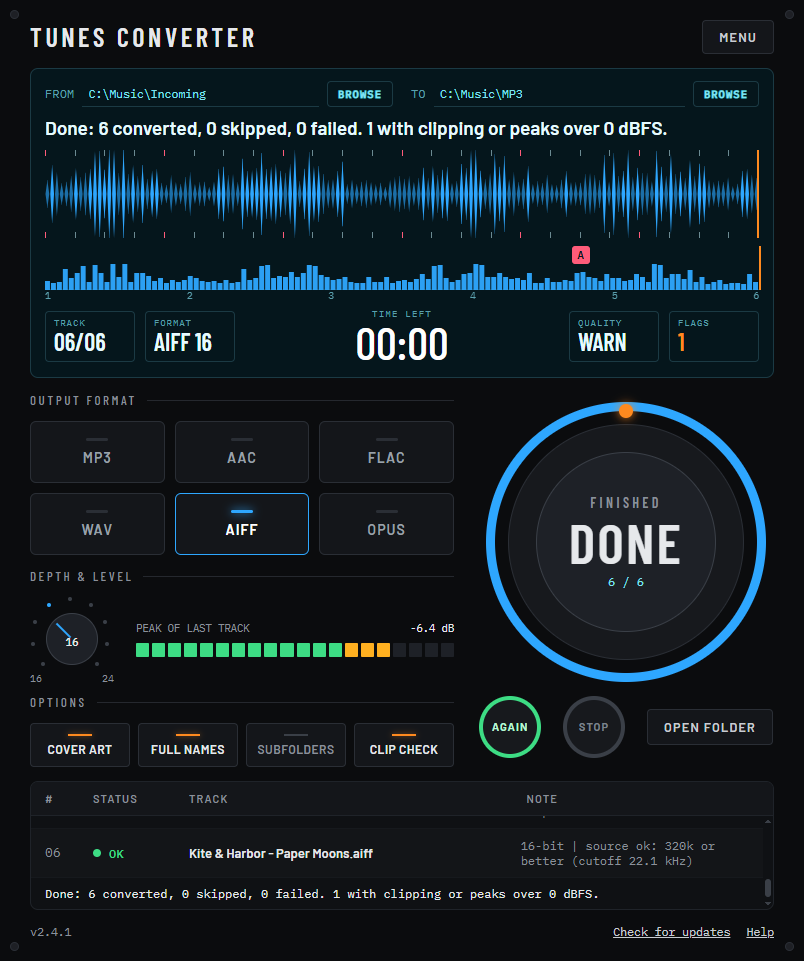
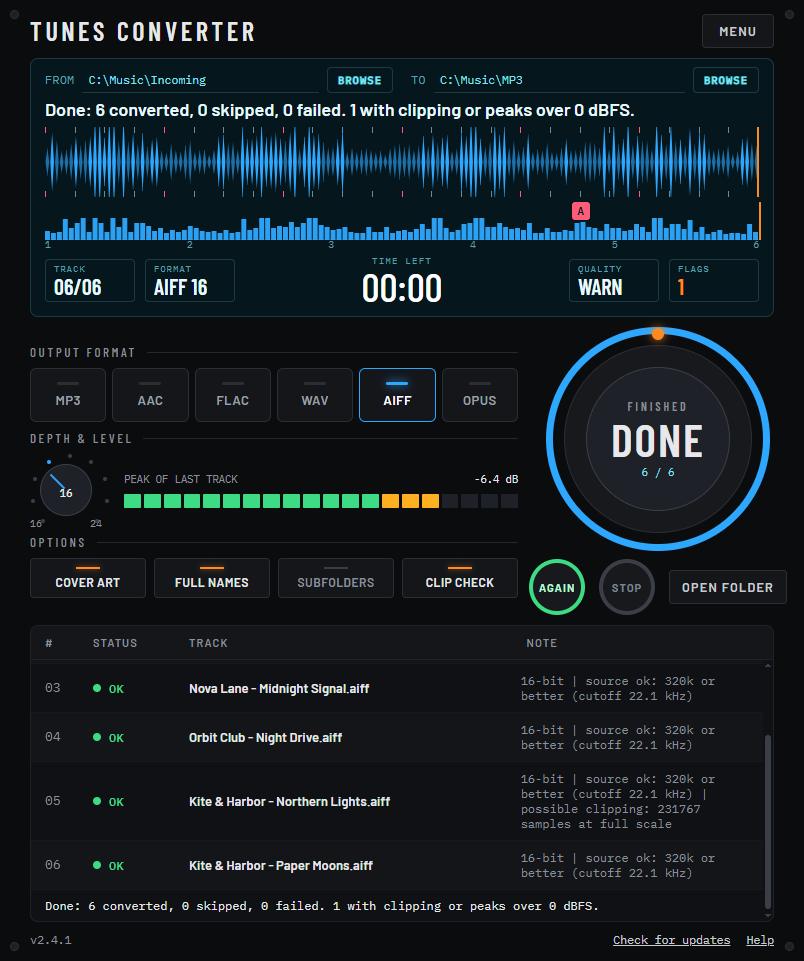
Bigger results list: one-row format pads, smaller platter, tighter spacing

diff --git a/src/renderer/styles.css b/src/renderer/styles.css
@@ -43,8 +43,8 @@ button { font-family: inherit; cursor: pointer; }
 button:disabled { cursor: default; }
 button:focus-visible, input:focus-visible, select:focus-visible { outline: 2px solid var(--blue); outline-offset: 2px; }
 
-.app { position: relative; display: flex; flex-direction: column; gap: 14px; height: 100vh; overflow: hidden; padding: 20px 30px 22px; max-width: 900px; margin: 0 auto; }
-.main-view { flex: 1; min-height: 0; display: flex; flex-direction: column; gap: 14px; }
+.app { position: relative; display: flex; flex-direction: column; gap: 10px; height: 100vh; overflow: hidden; padding: 14px 30px 14px; max-width: 900px; margin: 0 auto; }
+.main-view { flex: 1; min-height: 0; display: flex; flex-direction: column; gap: 10px; }
 .main-view > *, .head, .foot { flex: none; }
 .screw { position: absolute; width: 9px; height: 9px; border-radius: 50%; background: #1e2025; border: 1px solid var(--edge); }
 .screw.tl { left: 10px; top: 10px; } .screw.tr { right: 10px; top: 10px; }
@@ -71,7 +71,7 @@ h1 { margin: 0; font: 600 26px/1.1 var(--cond); letter-spacing: 0.14em; text-tra
 .btn.primary.small { width: auto; }
 
 /* screen */
-.screen { background: var(--lcd); border: 1px solid var(--lcd-edge); border-radius: 8px; padding: 12px 14px; display: flex; flex-direction: column; gap: 8px; }
+.screen { background: var(--lcd); border: 1px solid var(--lcd-edge); border-radius: 8px; padding: 8px 14px 10px; display: flex; flex-direction: column; gap: 5px; }
 .paths { display: flex; gap: 18px; font-family: var(--mono); font-size: 11.5px; color: var(--lcd-dim); }
 .path { flex: 1; min-width: 0; display: flex; align-items: center; gap: 8px; }
 .path label { font: inherit; letter-spacing: 0.04em; color: var(--lcd-dim); }
@@ -81,42 +81,42 @@ h1 { margin: 0; font: 600 26px/1.1 var(--cond); letter-spacing: 0.14em; text-tra
 }
 .path input:focus-visible { outline-offset: 0; }
 .path input:disabled { opacity: 0.6; }
-.screen-title { font-size: 19px; font-weight: 600; color: var(--lcd-hi); min-height: 27px; white-space: nowrap; overflow: hidden; text-overflow: ellipsis; }
-.wave { display: block; width: 100%; height: 88px; }
-.overview { position: relative; height: 50px; }
-.ov-strip { position: absolute; left: 0; right: 0; top: 18px; height: 26px; border-bottom: 1px solid var(--lcd-edge); }
-.minicv { display: block; width: 100%; height: 26px; }
-.ruler { position: absolute; left: 0; right: 0; bottom: -6px; display: flex; justify-content: space-between; font: 9.5px var(--mono); color: var(--lcd-dim); }
+.screen-title { font-size: 18px; font-weight: 600; color: var(--lcd-hi); min-height: 24px; line-height: 1.25; white-space: nowrap; overflow: hidden; text-overflow: ellipsis; }
+.wave { display: block; width: 100%; height: 70px; }
+.overview { position: relative; height: 40px; }
+.ov-strip { position: absolute; left: 0; right: 0; top: 16px; height: 22px; border-bottom: 1px solid var(--lcd-edge); }
+.minicv { display: block; width: 100%; height: 22px; }
+.ruler { position: absolute; left: 0; right: 0; bottom: -9px; display: flex; justify-content: space-between; font: 9.5px var(--mono); color: var(--lcd-dim); }
 .markers { position: absolute; left: 0; right: 0; top: 0; height: 18px; }
 .flag {
   position: absolute; top: 0; width: 18px; height: 18px; margin-left: -9px; border-radius: 3px; color: var(--lcd);
   font: 500 11px var(--mono); display: flex; align-items: center; justify-content: center;
 }
-.ov-head { position: absolute; top: 0; height: 44px; width: 0; border-left: 2px solid var(--orange); left: 0; }
-.readouts { display: grid; grid-template-columns: 90px 90px 1fr 90px 90px; gap: 10px; align-items: center; margin-top: 4px; }
-.ro { border: 1px solid var(--lcd-edge); border-radius: 4px; padding: 5px 8px; text-align: left; background: transparent; color: inherit; font: inherit; }
+.ov-head { position: absolute; top: 0; height: 38px; width: 0; border-left: 2px solid var(--orange); left: 0; }
+.readouts { display: grid; grid-template-columns: 90px 90px 1fr 90px 90px; gap: 10px; align-items: center; margin-top: 8px; }
+.ro { border: 1px solid var(--lcd-edge); border-radius: 4px; padding: 3px 8px; text-align: left; background: transparent; color: inherit; font: inherit; }
 .ro-btn { display: block; }
 .ro-btn:hover:not(:disabled) { background: #0b2830; border-color: #2b5b69; }
 .ro-btn:disabled { opacity: 0.7; }
 .ro-l { display: block; font: 9px var(--mono); color: var(--lcd-dim); letter-spacing: 0.1em; }
-.ro-v { display: block; font: 600 24px/1.15 var(--cond); color: var(--lcd-hi); white-space: nowrap; }
+.ro-v { display: block; font: 600 22px/1.1 var(--cond); color: var(--lcd-hi); white-space: nowrap; }
 .ro-v.hot { color: var(--orange); }
 .ro-time { text-align: center; }
 .ro-time .ro-l { letter-spacing: 0.14em; }
-.time { font: 500 46px/1 var(--cond); color: #fff; }
+.time { font: 500 40px/1 var(--cond); color: #fff; }
 
 .dropped { display: flex; flex-wrap: wrap; align-items: center; gap: 12px; padding: 10px 14px; border: 1px solid var(--edge); border-radius: 6px; color: var(--soft); font-size: 13px; }
 
 /* deck */
-.deck { display: grid; grid-template-columns: minmax(0, 1fr) 296px; gap: 24px; align-items: center; }
-.controls { display: flex; flex-direction: column; gap: 13px; min-width: 0; }
+.deck { display: grid; grid-template-columns: minmax(0, 1fr) 232px; gap: 24px; align-items: center; }
+.controls { display: flex; flex-direction: column; gap: 8px; min-width: 0; }
 .sec { display: flex; align-items: center; gap: 10px; font: 500 13px var(--cond); letter-spacing: 0.2em; color: var(--muted); }
 .sec i { flex: 1; height: 1px; background: #25282e; }
-.pads { display: grid; grid-template-columns: repeat(3, minmax(0, 1fr)); gap: 10px; }
+.pads { display: grid; grid-template-columns: repeat(6, minmax(0, 1fr)); gap: 6px; }
 .pad {
-  height: 62px; border-radius: 6px; border: 1px solid var(--edge); background: var(--panel); color: #9aa0a9;
-  display: flex; flex-direction: column; align-items: center; justify-content: center; gap: 8px;
-  font-size: 14px; font-weight: 600; letter-spacing: 0.08em;
+  height: 54px; border-radius: 6px; border: 1px solid var(--edge); background: var(--panel); color: #9aa0a9;
+  display: flex; flex-direction: column; align-items: center; justify-content: center; gap: 7px;
+  font-size: 13px; font-weight: 600; letter-spacing: 0.04em; padding: 0;
 }
 .pad .led { width: 22px; height: 3px; border-radius: 2px; background: var(--edge); }
 .pad:hover:not(:disabled) { border-color: #3a3f47; }
@@ -125,15 +125,15 @@ h1 { margin: 0; font: 600 26px/1.1 var(--cond); letter-spacing: 0.14em; text-tra
 .pad:disabled:not([aria-pressed="true"]) { opacity: 0.55; }
 
 .level { display: flex; align-items: center; gap: 22px; }
-.knob-wrap { position: relative; width: 84px; height: 84px; flex: none; }
+.knob-wrap { position: relative; width: 72px; height: 72px; flex: none; }
 .knob { position: absolute; inset: 0; padding: 0; border: 0; border-radius: 50%; background: transparent; color: var(--ink); }
 .knob-ticks { position: absolute; inset: 0; }
 .knob-ticks b { position: absolute; width: 4px; height: 4px; border-radius: 50%; background: #3a3f47; }
 .knob-ticks b.on { background: var(--blue); }
-.knob .cap { position: absolute; left: 16px; top: 16px; width: 52px; height: 52px; border-radius: 50%; background: #1e2127; border: 1px solid #3a3f47; }
+.knob .cap { position: absolute; left: 10px; top: 10px; width: 52px; height: 52px; border-radius: 50%; background: #1e2127; border: 1px solid #3a3f47; }
 .knob:hover:not(:disabled) .cap { border-color: #5a616c; }
-.knob .ptr { position: absolute; left: 41px; top: 20px; width: 2px; height: 20px; background: var(--blue); transform-origin: 1px 22px; transform: rotate(var(--ang, -45deg)); }
-.knob .kval { position: absolute; left: 16px; top: 38px; width: 52px; text-align: center; font: 500 11px var(--mono); color: var(--ink); }
+.knob .ptr { position: absolute; left: 35px; top: 14px; width: 2px; height: 20px; background: var(--blue); transform-origin: 1px 22px; transform: rotate(var(--ang, -45deg)); }
+.knob .kval { position: absolute; left: 10px; top: 32px; width: 52px; text-align: center; font: 500 11px var(--mono); color: var(--ink); }
 .knob:disabled { opacity: 0.6; }
 .klo, .khi { position: absolute; bottom: -4px; font: 10px var(--mono); color: var(--muted); }
 .klo { left: 0; } .khi { right: 0; }
@@ -148,7 +148,7 @@ h1 { margin: 0; font: 600 26px/1.1 var(--cond); letter-spacing: 0.14em; text-tra
 
 .opts { display: grid; grid-template-columns: repeat(4, minmax(0, 1fr)); gap: 8px; }
 .opt {
-  height: 44px; border-radius: 4px; border: 1px solid var(--edge); background: var(--panel); color: var(--muted);
+  height: 40px; border-radius: 4px; border: 1px solid var(--edge); background: var(--panel); color: var(--muted);
   display: flex; flex-direction: column; align-items: center; justify-content: center; gap: 6px;
   font-size: 12px; font-weight: 600; letter-spacing: 0.04em; white-space: nowrap;
 }
@@ -159,28 +159,28 @@ h1 { margin: 0; font: 600 26px/1.1 var(--cond); letter-spacing: 0.14em; text-tra
 .opt:disabled { opacity: 0.6; }
 
 /* platter */
-.platter-col { display: flex; flex-direction: column; align-items: center; gap: 14px; }
-.platter { position: relative; width: 280px; height: 280px; border-radius: 50%; --p: 0; background: conic-gradient(var(--blue) 0 calc(var(--p) * 1%), #1b1e24 calc(var(--p) * 1%) 100%); }
-.ring-mask { position: absolute; inset: 9px; border-radius: 50%; background: var(--bg); }
-.deck-face { position: absolute; inset: 22px; border-radius: 50%; background: #17191d; border: 1px solid var(--edge); }
+.platter-col { display: flex; flex-direction: column; align-items: center; gap: 8px; }
+.platter { position: relative; width: 224px; height: 224px; border-radius: 50%; --p: 0; background: conic-gradient(var(--blue) 0 calc(var(--p) * 1%), #1b1e24 calc(var(--p) * 1%) 100%); }
+.ring-mask { position: absolute; inset: 7px; border-radius: 50%; background: var(--bg); }
+.deck-face { position: absolute; inset: 18px; border-radius: 50%; background: #17191d; border: 1px solid var(--edge); }
 .marker { position: absolute; inset: 0; transform: rotate(calc(var(--p) * 3.6deg)); pointer-events: none; }
-.marker span { position: absolute; left: 133px; top: 2px; width: 14px; height: 14px; border-radius: 50%; background: var(--orange); box-shadow: 0 0 10px var(--orange); }
+.marker span { position: absolute; left: 106px; top: 1px; width: 12px; height: 12px; border-radius: 50%; background: var(--orange); box-shadow: 0 0 10px var(--orange); }
 .platter.idle .marker { opacity: 0.45; }
-.hub { position: absolute; left: 50px; top: 50px; width: 180px; height: 180px; border-radius: 50%; border: 1px solid #3a3f47; background: #1e2127; display: flex; flex-direction: column; align-items: center; justify-content: center; gap: 2px; }
-.hub-l { font: 600 14px var(--cond); letter-spacing: 0.24em; color: var(--muted); }
-.hub-big { font: 600 56px/1.05 var(--cond); letter-spacing: 0.04em; }
-.hub-c { font: 12px var(--mono); color: var(--lcd-ink); }
+.hub { position: absolute; left: 40px; top: 40px; width: 144px; height: 144px; border-radius: 50%; border: 1px solid #3a3f47; background: #1e2127; display: flex; flex-direction: column; align-items: center; justify-content: center; gap: 2px; }
+.hub-l { font: 600 12px var(--cond); letter-spacing: 0.24em; color: var(--muted); }
+.hub-big { font: 600 46px/1.05 var(--cond); letter-spacing: 0.04em; }
+.hub-c { font: 11px var(--mono); color: var(--lcd-ink); }
 .fill { position: absolute; width: 0; height: 0; overflow: hidden; }
 
-.actions { display: flex; align-items: center; gap: 22px; }
-.ringbtn { width: 62px; height: 62px; border-radius: 50%; border: 4px solid; background: #17191d; font-size: 11px; font-weight: 700; letter-spacing: 0.1em; padding: 0; }
+.actions { display: flex; align-items: center; gap: 14px; }
+.ringbtn { width: 56px; height: 56px; border-radius: 50%; border: 4px solid; background: #17191d; font-size: 11px; font-weight: 700; letter-spacing: 0.1em; padding: 0; }
 .ringbtn.go { border-color: var(--green); color: #b8f5d2; }
 .ringbtn.go:hover:not(:disabled) { background: #1c2a22; }
 .ringbtn.go:disabled { border-color: #1f5a38; color: #7d9488; }
 .ringbtn.halt { border-color: var(--orange); color: var(--orange); }
 .ringbtn.halt:hover:not(:disabled) { background: #2a2118; }
 .ringbtn.halt:disabled { border-color: #3a3f47; color: #7c828c; }
-.btn.wide { height: 36px; white-space: nowrap; }
+.btn.wide { height: 34px; padding: 0 12px; white-space: nowrap; }
 
 /* track list */
 .card { background: var(--card); border: 1px solid var(--border); border-radius: 8px; }

diff --git a/src/renderer/renderer.js b/src/renderer/renderer.js
@@ -694,7 +694,7 @@
   }
 
   // On short windows the whole UI is scaled down (Electron zoom) instead of scrolling; the track list gets LOG_MIN px.
-  const LOG_MIN = 120;
+  const LOG_MIN = 140;
   let zoomNow = 1;
   let lastPhys = { w: 0, h: 0 };
   function fitZoom(force) {
